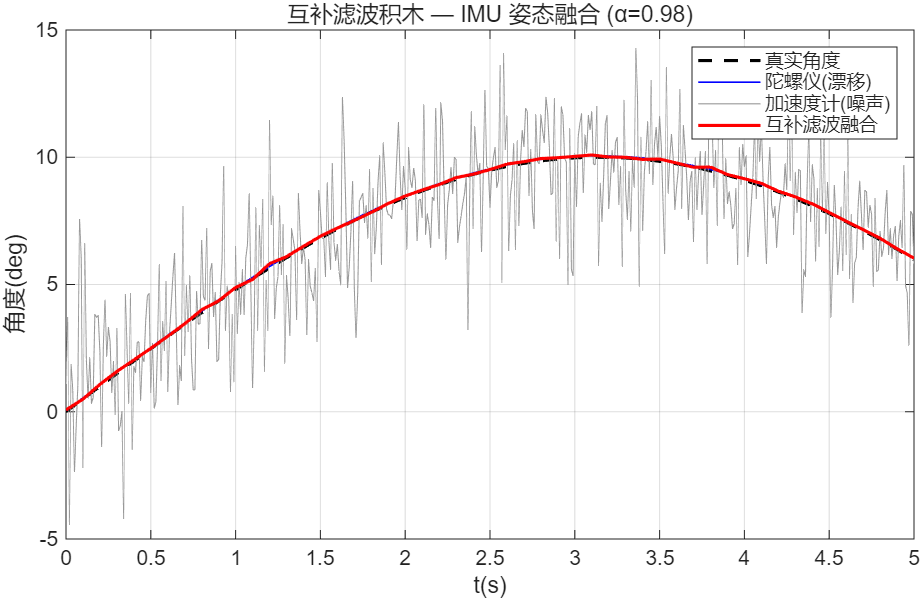
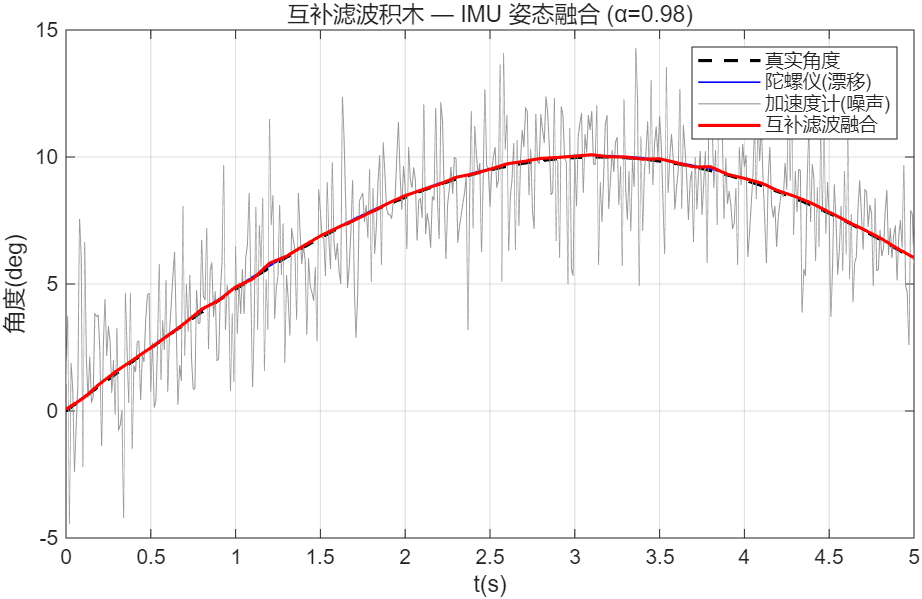
Add README demo preview screenshots (PID, LQR, SMC)

diff --git a/examples/demo_smc_msd.m b/examples/demo_smc_msd.m
@@ -26,16 +26,16 @@ add_block('simulink/Continuous/Derivative',[mdl '/de'],'Position',[150,100,190,1
 
 add_block('SMC_Controller/SMC',[mdl '/SMC'],'Position',[280,40,380,110]);
 set_param([mdl '/SMC'],'lambda','10','K_smc','5','phi','0.1');
-add_block('simulink/Continuous/Transfer Fcn',[mdl '/Plant_SMC'],'Position',[470,45,560,95]);
-set_param([mdl '/Plant_SMC'],'Numerator','[1]','Denominator','[1 0.5 10]');
+add_block('simulink/Continuous/Transfer Fcn',[mdl '/PlantSMC'],'Position',[470,45,560,95]);
+set_param([mdl '/PlantSMC'],'Numerator','[1]','Denominator','[1 0.5 10]');
 
 % PID 路径
 add_block('simulink/Math Operations/Sum',[mdl '/Err_PID'],'Position',[150,200,180,230]);
 set_param([mdl '/Err_PID'],'Inputs','|+-');
 add_block('PID_Controller/PID',[mdl '/PID'],'Position',[280,200,380,270]);
 set_param([mdl '/PID'],'Kp','50','Ki','20','Kd','5','N','100','UL','10','LL','-10','Kaw','1');
-add_block('simulink/Continuous/Transfer Fcn',[mdl '/Plant_PID'],'Position',[470,205,560,255]);
-set_param([mdl '/Plant_PID'],'Numerator','[1]','Denominator','[1 0.5 10]');
+add_block('simulink/Continuous/Transfer Fcn',[mdl '/PlantPID'],'Position',[470,205,560,255]);
+set_param([mdl '/PlantPID'],'Numerator','[1]','Denominator','[1 0.5 10]');
 
 add_block('simulink/Sinks/Scope',[mdl '/Scope'],'Position',[640,80,700,220]);
 set_param([mdl '/Scope'],'NumInputPorts','2');
@@ -44,16 +44,16 @@ set_param([mdl '/Scope'],'NumInputPorts','2');
 add_line(mdl,'Step/1','Err_SMC/1'); add_line(mdl,'Step/1','Err_PID/1');
 add_line(mdl,'Err_SMC/1','SMC/1'); add_line(mdl,'Err_SMC/1','de/1');
 add_line(mdl,'de/1','SMC/2');
-add_line(mdl,'SMC/1','Plant_SMC/1');
-add_line(mdl,'Plant_SMC/1','Scope/1'); add_line(mdl,'Plant_SMC/1','Err_SMC/2');
+add_line(mdl,'SMC/1','PlantSMC/1');
+add_line(mdl,'PlantSMC/1','Scope/1'); add_line(mdl,'PlantSMC/1','Err_SMC/2');
 
 add_line(mdl,'Err_PID/1','PID/1');
-add_line(mdl,'PID/1','Plant_PID/1');
-add_line(mdl,'Plant_PID/1','Scope/2'); add_line(mdl,'Plant_PID/1','Err_PID/2');
+add_line(mdl,'PID/1','PlantPID/1');
+add_line(mdl,'PlantPID/1','Scope/2'); add_line(mdl,'PlantPID/1','Err_PID/2');
 
-ph1=get_param([mdl '/Plant_SMC'],'PortHandles');
+ph1=get_param([mdl '/PlantSMC'],'PortHandles');
 set_param(ph1.Outport(1),'DataLogging','on','DataLoggingNameMode','Custom','DataLoggingName','y_smc');
-ph2=get_param([mdl '/Plant_PID'],'PortHandles');
+ph2=get_param([mdl '/PlantPID'],'PortHandles');
 set_param(ph2.Outport(1),'DataLogging','on','DataLoggingNameMode','Custom','DataLoggingName','y_pid');
 set_param(mdl,'StopTime','3'); simOut=sim(mdl);
 

diff --git a/examples/demo_pid_msd.m b/examples/demo_pid_msd.m
@@ -29,8 +29,8 @@ set_param([mdl '/PID'], 'Kp', '50', 'Ki', '20', 'Kd', '5', ...
     'N', '100', 'UL', '10', 'LL', '-10', 'Kaw', '1');
 
 % 被控对象
-add_block('simulink/Continuous/Transfer Fcn', [mdl '/MSD Plant'], 'Position', [480,75,570,125]);
-set_param([mdl '/MSD Plant'], 'Numerator', '[1]', 'Denominator', '[1 0.5 10]');
+add_block('simulink/Continuous/Transfer Fcn', [mdl '/MSD_Plant'], 'Position', [480,75,570,125]);
+set_param([mdl '/MSD_Plant'], 'Numerator', '[1]', 'Denominator', '[1 0.5 10]');
 
 % 示波器
 add_block('simulink/Sinks/Scope', [mdl '/Scope'], 'Position', [660,75,720,125]);
@@ -39,13 +39,13 @@ set_param([mdl '/Scope'], 'NumInputPorts', '2');
 % 连线
 add_line(mdl, 'Setpoint/1', 'Error/1');
 add_line(mdl, 'Error/1', 'PID/1');
-add_line(mdl, 'PID/1', 'MSD Plant/1');
-add_line(mdl, 'MSD Plant/1', 'Scope/1');
+add_line(mdl, 'PID/1', 'MSD_Plant/1');
+add_line(mdl, 'MSD_Plant/1', 'Scope/1');
 add_line(mdl, 'Setpoint/1', 'Scope/2');
-add_line(mdl, 'MSD Plant/1', 'Error/2');
+add_line(mdl, 'MSD_Plant/1', 'Error/2');
 
 % 信号记录
-ph = get_param([mdl '/MSD Plant'], 'PortHandles');
+ph = get_param([mdl '/MSD_Plant'], 'PortHandles');
 set_param(ph.Outport(1), 'DataLogging', 'on', ...
     'DataLoggingNameMode', 'Custom', 'DataLoggingName', 'y_out');
 